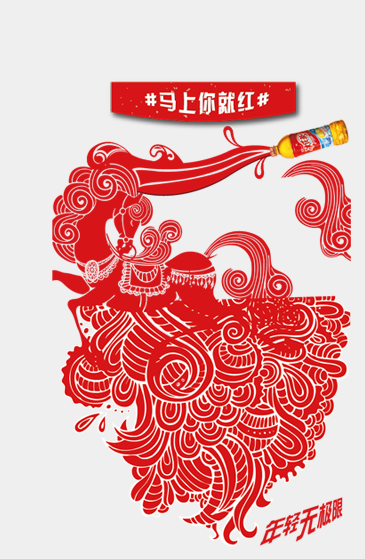
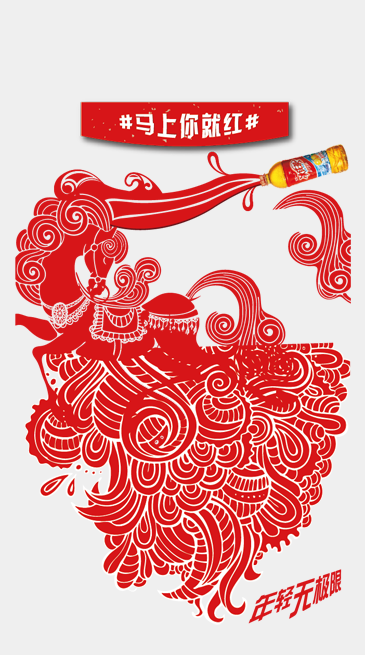
'm'

diff --git a/weixin.php b/weixin.php
@@ -113,7 +113,7 @@ if ($msgType == 'text') {
 			$image->annotateImage($draw, 200, 100, -10, $userInfo['content']);
 			//$image->annotateImage($draw, 100, 200, -10,'test4测试字体');
 			//$userImg->compositeImage($image, Imagick::COMPOSITE_DEFAULT, 0, 0);
-			$image->compositeImage($userImg, Imagick::COMPOSITE_DEFAULT, 50, 100);
+			$image->compositeImage($userImg, Imagick::COMPOSITE_DEFAULT, 100, 200);
 			$image->compositeImage($image_top, Imagick::COMPOSITE_DEFAULT, 0, 0);
 			header('Content-type: image/jpg');
             //$userImg->writeImage('./image/'.$userInfo['picName']);
